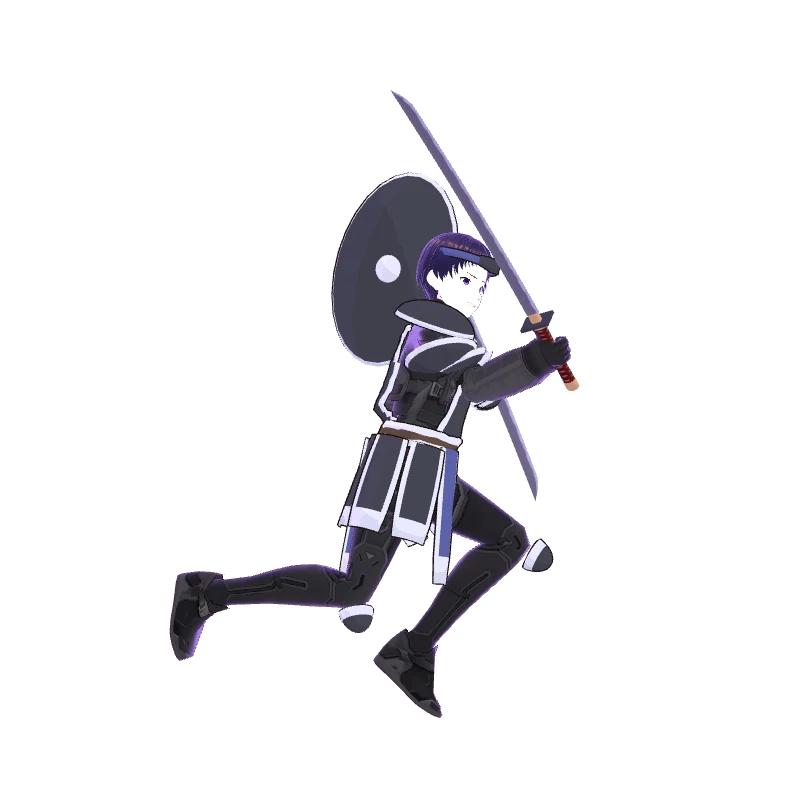
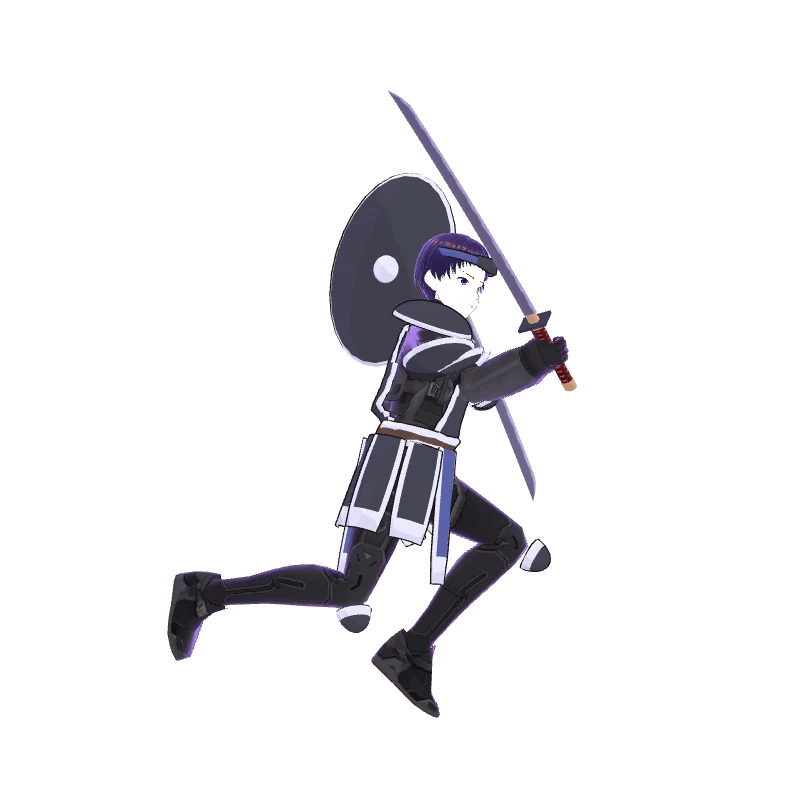
両手武器を片手で振らないようにする: 左手が届かない時は右手ごと武器を引き寄せる (v1.17.4)
- 左手が柄に届かない場面では手を離さず、右手ごと武器を左肩の方へ引き寄せて両手で握ったまま振る(武器と斬撃の軌跡も同じだけ動かす)
- _reach を左右どちらの腕にも使えるように
- 点検結果: 左手を柄から離す場面 ガンドウ47%・レイガ30% → 全員0%。左手と柄の距離は最大2cm前後

diff --git a/src/vrmchar.js b/src/vrmchar.js
@@ -51,6 +51,7 @@ export async function loadVrm(id) {
 
 const _q = new THREE.Quaternion(), _p = new THREE.Vector3(), _v = new THREE.Vector3(), _w = new THREE.Vector3();
 const _f = new THREE.Vector3(), _g = new THREE.Vector3(), _x = new THREE.Vector3(), _y = new THREE.Vector3(), _m = new THREE.Matrix4();
+const _C3 = new THREE.Vector3(), _C4 = new THREE.Vector3(), _C5 = new THREE.Vector3();
 const _q0 = new THREE.Quaternion(), _q1 = new THREE.Quaternion(), _q2 = new THREE.Quaternion(), _q3 = new THREE.Quaternion(), _eu = new THREE.Euler();
 const _C1 = new THREE.Vector3(), _C2 = new THREE.Vector3(), _T3 = new THREE.Vector3(), _T4 = new THREE.Vector3(), _F = new THREE.Vector3(), _H2 = new THREE.Vector3();
 const _hq = new THREE.Quaternion(), _pq = new THREE.Quaternion(), _rq = new THREE.Quaternion();
@@ -189,7 +190,25 @@ export class VrmBody {
     // 両手持ち: VRMの腕の長さで左手を柄に届かせる(元リグの角度を写すだけだと届かない)
     if (two) {
       this.wR.updateMatrixWorld(true);
-      const T = _T3.copy(this._leftGrip(dt));
+      let T = _T3.copy(this._leftGrip(dt));
+      // 左手が届かない時は、右手ごと武器を左肩の方へ引き寄せて、両手で握ったまま振る(大きな両手武器を片手で振らない)
+      N.leftUpperArm.getWorldPosition(_S);
+      const maxR = (this._armLen || 1) + 0.04 * this.k * this.model.root.scale.x, over = T.distanceTo(_S) - maxR * 0.95;
+      if (this._armLen && over > 0) {
+        const shift = _T4.copy(_S).sub(T).normalize().multiplyScalar(over);
+        const oldF = this._fistCenter(false, _C3), goal = _C4.copy(oldF).add(shift);
+        for (let it = 0; it < 3; it++) {
+          N.rightHand.getWorldPosition(_H2); this._fistCenter(false, _F);
+          this._reach(_H2.add(_v.copy(goal).sub(_F)), false, 'right');
+          this._grip('rightHand', 'rightLowerArm', Q.handR, false);
+        }
+        const delta = this._fistCenter(false, _F).sub(oldF);                    // 実際に動いた量だけ武器と軌跡を動かす
+        this.wR.parent.updateMatrixWorld(true);
+        const lp = this.wR.parent.worldToLocal(_C5.copy(this.wR.getWorldPosition(_v)).add(delta));
+        this.wR.position.copy(lp); this.wR.updateMatrixWorld(true);
+        if (rig) { rig.wBase.add(delta); rig.wTip.add(delta); }
+        T = _T3.copy(this.wR.localToWorld(_T.set(0, this._gt, 0)));
+      }
       // 腕が届かない時は柄から手を離し、届くようになったら握り直す(伸ばしきった手が柄の近くで浮かないように)
       N.leftUpperArm.getWorldPosition(_S);
       const reach = this._armLen ? T.distanceTo(_S) / (this._armLen + 0.04 * this.k * this.model.root.scale.x) : 0;   // 肩を出せば少し遠くまで届く
@@ -265,16 +284,16 @@ export class VrmBody {
     mid.getWorldPosition(_v); out.lerp(_v, 0.62); node.getWorldQuaternion(_hq);
     return out.addScaledVector(_y.set(0, -1, 0).applyQuaternion(_hq), 0.018 * this.k * this.model.root.scale.x);
   }
-  _reach(T, fist = true) {
-    const N = this.N, up = N.leftUpperArm, lo = N.leftLowerArm, hd = N.leftHand;
+  _reach(T, fist = true, side = 'left') {
+    const N = this.N, up = N[side + 'UpperArm'], lo = N[side + 'LowerArm'], hd = N[side + 'Hand'];
     if (!up || !lo || !hd) return;
     up.getWorldPosition(_S); lo.getWorldPosition(_E); hd.getWorldPosition(_H);
     // 手首ではなく拳の中心を柄に合わせる
-    const mid = this.vrm.humanoid.getNormalizedBoneNode('leftMiddleProximal');
+    const mid = this.vrm.humanoid.getNormalizedBoneNode(side + 'MiddleProximal');
     let off = 0; if (mid && fist) { mid.getWorldPosition(_v); off = _v.distanceTo(_H) * 0.62; }
     let a = _S.distanceTo(_E), b = _E.distanceTo(_H) + off;
-    // 届かない時は左肩(鎖骨)を目標の方へ少し出して、腕の付け根ごと近づける(最大25°)
-    const sh = N.leftShoulder;
+    // 届かない時は肩(鎖骨)を目標の方へ少し出して、腕の付け根ごと近づける(最大25°)
+    const sh = N[side + 'Shoulder'];
     if (sh && _S.distanceTo(T) > (a + b) * 0.97) {
       sh.getWorldPosition(_C1); const from = _C2.copy(_S).sub(_C1), to = _v.copy(T).sub(_C1);
       const need = Math.min(1, (_S.distanceTo(T) - (a + b) * 0.97) / Math.max(1e-4, from.length() * 0.45));

diff --git a/sw.js b/sw.js
@@ -1,6 +1,6 @@
 // サービスワーカー: 全ファイルをキャッシュしてオフラインでも遊べるようにする
 // ※ ゲームを更新したら CACHE の番号を上げてください(古いキャッシュが破棄されます)
-const CACHE = 'seiga-v1.17.3';
+const CACHE = 'seiga-v1.17.4';
 const FILES = [
   './', 'index.html', 'manifest.webmanifest', 'css/style.css', 'vendor/three.module.min.js',
   'icons/icon-192.png', 'icons/icon-512.png', 'icons/icon-maskable-512.png', 'icons/apple-touch-icon.png',

diff --git a/src/config.js b/src/config.js
@@ -4,7 +4,7 @@
 // 空のままでも、ゲーム内「設定」画面から個別にURLを入力できます。
 export const CLOUD_URL = 'https://script.google.com/macros/s/AKfycbwIXAdAaQbAvjuTPs3f40_3I8KxJB3mKbrFkAzfM-IuFDj_kmxqeDuisBGuqbjSZOJp1Q/exec';
 
-export const VERSION = '1.17.3';
+export const VERSION = '1.17.4';
 
 // VRoid のキャラ(VRM)。ファイルを vrm/ フォルダに入れ、武将ID: パス を書くと差し替わります
 // 武将ID: reiga / setsuna / raika / gandou / fuuka / yomi
